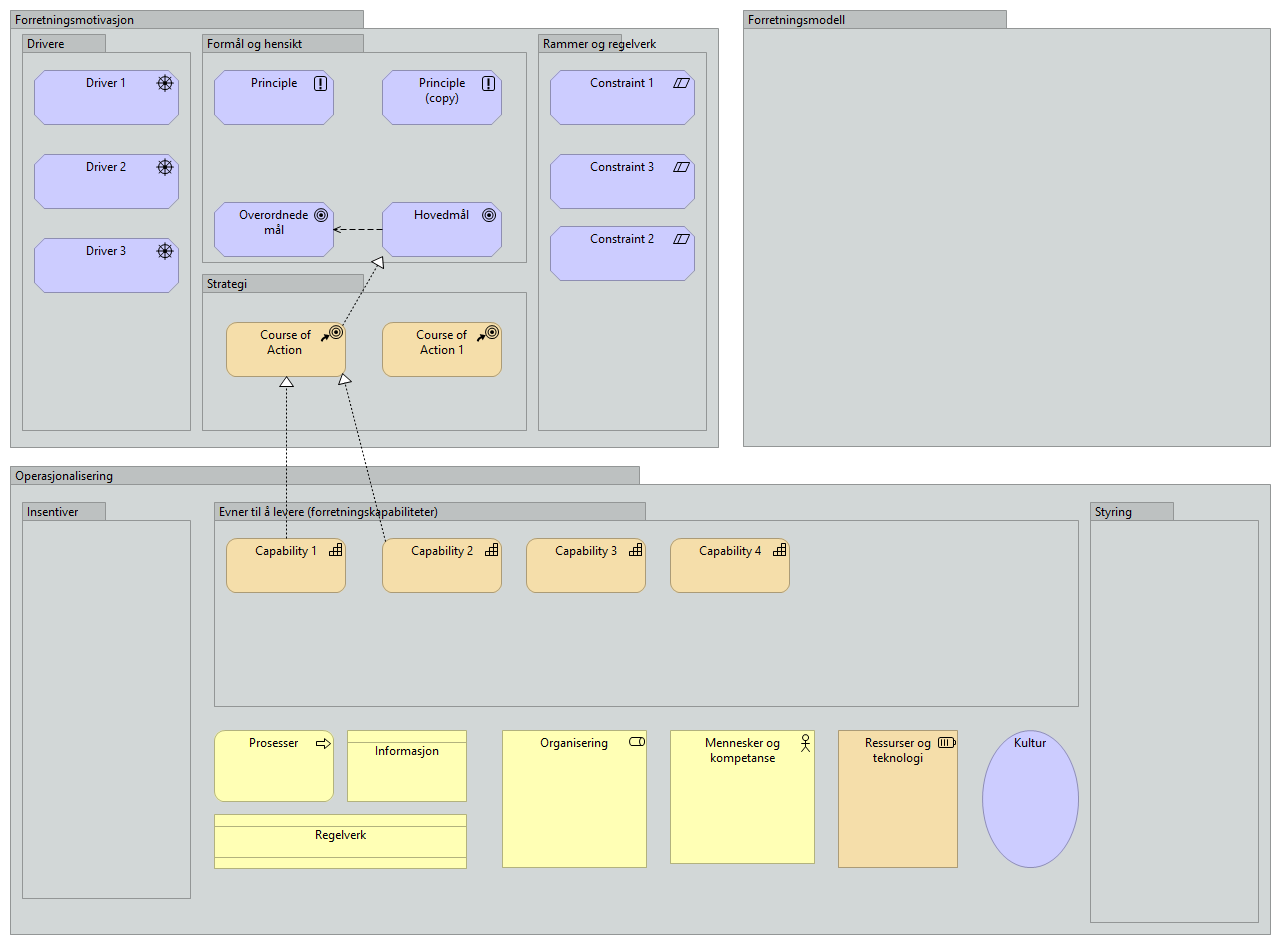
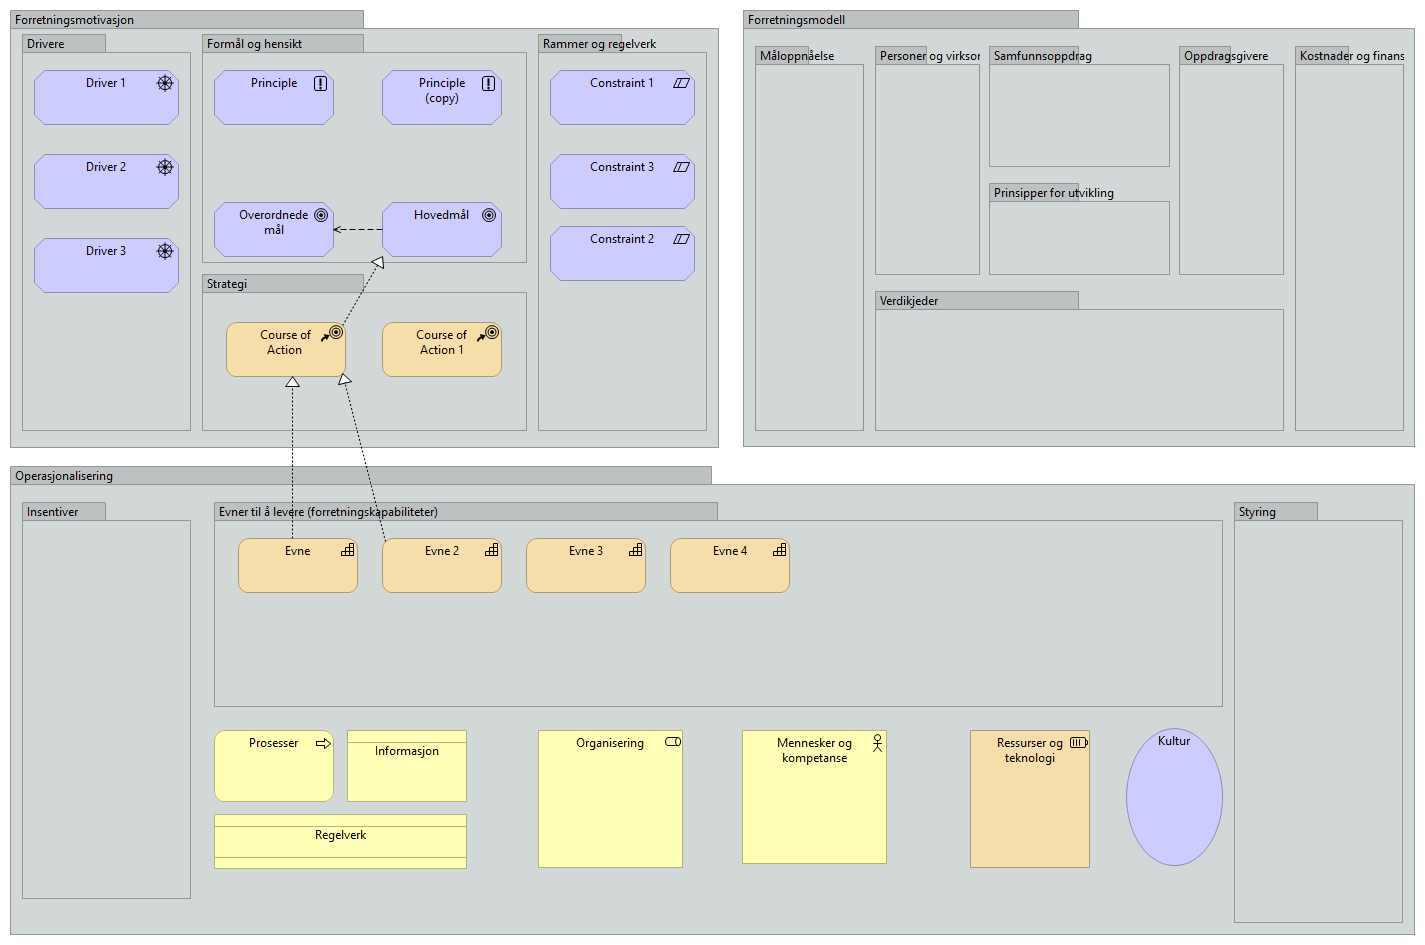
Oppdatert HTML-rapport

diff --git a/docs/70ff1122-82b9-4d13-a15c-6cdc858dd4b3/views/d6ad8e9f-da2d-4299-8c92-d0bce3cb6208.html b/docs/70ff1122-82b9-4d13-a15c-6cdc858dd4b3/views/d6ad8e9f-da2d-4299-8c92-d0bce3cb6208.html
@@ -44,18 +44,18 @@
 										<area shape="rect" coords="382,322,502,377" href="../elements/99510fb0-ff4c-4f28-a1dc-5a84cbc7554e.html"  target="element">
 
 
-										<area shape="rect" coords="226,538,346,593" href="../elements/c6c35a07-3934-491d-a286-147cd1800de6.html"  target="element">
 										<area shape="rect" coords="382,538,502,593" href="../elements/e170b900-4717-47b4-aedc-95363dc1256f.html"  target="element">
 										<area shape="rect" coords="526,538,646,593" href="../elements/d93bb6c5-720a-4d79-b562-fc19e488629f.html"  target="element">
 										<area shape="rect" coords="670,538,790,593" href="../elements/efd702d9-a116-44b5-9754-6e97176531b7.html"  target="element">
+										<area shape="rect" coords="238,538,358,593" href="../elements/04bc3c90-d49d-4066-ad61-268c4b8d3027.html"  target="element">
 
 								<area shape="rect" coords="214,730,334,802" href="../elements/48eb4a74-c1f8-4adf-ae94-2d6c5d314868.html"  target="element">
 								<area shape="rect" coords="347,730,467,802" href="../elements/69f1a2d9-0156-4349-afdf-cdc3a712f304.html"  target="element">
 								<area shape="rect" coords="214,814,467,869" href="../elements/3f55875b-291b-4cd9-a385-c12b8b3eb693.html"  target="element">
-								<area shape="rect" coords="838,730,958,868" href="../elements/005ed7a3-7628-4933-b7f3-c3f694d0a891.html"  target="element">
-								<area shape="rect" coords="982,730,1079,868" href="../elements/7b7b0cfd-7557-4e5c-8e8f-c1b99c6ee71c.html"  target="element">
-								<area shape="rect" coords="502,730,647,868" href="../elements/af1fed58-bc73-4443-a9b4-9c0fe1803460.html"  target="element">
-								<area shape="rect" coords="670,730,815,864" href="../elements/2491f78e-ea1f-4883-8e53-834dcc42f157.html"  target="element">
+								<area shape="rect" coords="970,730,1090,868" href="../elements/005ed7a3-7628-4933-b7f3-c3f694d0a891.html"  target="element">
+								<area shape="rect" coords="1126,728,1223,866" href="../elements/7b7b0cfd-7557-4e5c-8e8f-c1b99c6ee71c.html"  target="element">
+								<area shape="rect" coords="538,730,683,868" href="../elements/af1fed58-bc73-4443-a9b4-9c0fe1803460.html"  target="element">
+								<area shape="rect" coords="742,730,887,864" href="../elements/2491f78e-ea1f-4883-8e53-834dcc42f157.html"  target="element">
 
 
 			</map>
@@ -119,10 +119,10 @@
 										<!-- DEBUG: Skipping element from class com.archimatetool.model.impl.DiagramModelGroup -->	
 												<!-- DEBUG: Skipping element from class com.archimatetool.model.impl.DiagramModelGroup -->	
 												<!-- DEBUG: Skipping element from class com.archimatetool.model.impl.DiagramModelGroup -->	
-														<tr><td> <a href="../elements/c6c35a07-3934-491d-a286-147cd1800de6.html" target="element"> Capability 1 </a> </td><td class="i18n-elementtype-Capability"></td></tr>
-														<tr><td> <a href="../elements/e170b900-4717-47b4-aedc-95363dc1256f.html" target="element"> Capability 2 </a> </td><td class="i18n-elementtype-Capability"></td></tr>
-														<tr><td> <a href="../elements/d93bb6c5-720a-4d79-b562-fc19e488629f.html" target="element"> Capability 3 </a> </td><td class="i18n-elementtype-Capability"></td></tr>
-														<tr><td> <a href="../elements/efd702d9-a116-44b5-9754-6e97176531b7.html" target="element"> Capability 4 </a> </td><td class="i18n-elementtype-Capability"></td></tr>
+														<tr><td> <a href="../elements/e170b900-4717-47b4-aedc-95363dc1256f.html" target="element"> Evne 2 </a> </td><td class="i18n-elementtype-Capability"></td></tr>
+														<tr><td> <a href="../elements/d93bb6c5-720a-4d79-b562-fc19e488629f.html" target="element"> Evne 3 </a> </td><td class="i18n-elementtype-Capability"></td></tr>
+														<tr><td> <a href="../elements/efd702d9-a116-44b5-9754-6e97176531b7.html" target="element"> Evne 4 </a> </td><td class="i18n-elementtype-Capability"></td></tr>
+														<tr><td> <a href="../elements/04bc3c90-d49d-4066-ad61-268c4b8d3027.html" target="element"> Evne </a> </td><td class="i18n-elementtype-Capability"></td></tr>
 												
 												<!-- DEBUG: Skipping element from class com.archimatetool.model.impl.DiagramModelGroup -->	
 												<tr><td> <a href="../elements/48eb4a74-c1f8-4adf-ae94-2d6c5d314868.html" target="element"> Prosesser </a> </td><td class="i18n-elementtype-BusinessProcess"></td></tr>
@@ -134,6 +134,14 @@
 												<tr><td> <a href="../elements/2491f78e-ea1f-4883-8e53-834dcc42f157.html" target="element"> Mennesker og kompetanse </a> </td><td class="i18n-elementtype-BusinessActor"></td></tr>
 										
 										<!-- DEBUG: Skipping element from class com.archimatetool.model.impl.DiagramModelGroup -->	
+												<!-- DEBUG: Skipping element from class com.archimatetool.model.impl.DiagramModelGroup -->	
+												<!-- DEBUG: Skipping element from class com.archimatetool.model.impl.DiagramModelGroup -->	
+												<!-- DEBUG: Skipping element from class com.archimatetool.model.impl.DiagramModelGroup -->	
+												<!-- DEBUG: Skipping element from class com.archimatetool.model.impl.DiagramModelGroup -->	
+												<!-- DEBUG: Skipping element from class com.archimatetool.model.impl.DiagramModelGroup -->	
+												<!-- DEBUG: Skipping element from class com.archimatetool.model.impl.DiagramModelGroup -->	
+												<!-- DEBUG: Skipping element from class com.archimatetool.model.impl.DiagramModelGroup -->	
+										
 
 							</tbody>
 						</table>

diff --git a/docs/index.html b/docs/index.html
@@ -52,10 +52,9 @@
                                 <li><span class="i18n-strategy"><i class="glyphicon glyphicon-triangle-right"></i> </span>
                                     <ul>
                                     				<li class="tree-element"><a href="70ff1122-82b9-4d13-a15c-6cdc858dd4b3/elements/04bc3c90-d49d-4066-ad61-268c4b8d3027.html" target="element"> Evne </a></li>
-                                    				<li class="tree-element"><a href="70ff1122-82b9-4d13-a15c-6cdc858dd4b3/elements/c6c35a07-3934-491d-a286-147cd1800de6.html" target="element"> Capability 1 </a></li>
-                                    				<li class="tree-element"><a href="70ff1122-82b9-4d13-a15c-6cdc858dd4b3/elements/d93bb6c5-720a-4d79-b562-fc19e488629f.html" target="element"> Capability 3 </a></li>
-                                    				<li class="tree-element"><a href="70ff1122-82b9-4d13-a15c-6cdc858dd4b3/elements/e170b900-4717-47b4-aedc-95363dc1256f.html" target="element"> Capability 2 </a></li>
-                                    				<li class="tree-element"><a href="70ff1122-82b9-4d13-a15c-6cdc858dd4b3/elements/efd702d9-a116-44b5-9754-6e97176531b7.html" target="element"> Capability 4 </a></li>
+                                    				<li class="tree-element"><a href="70ff1122-82b9-4d13-a15c-6cdc858dd4b3/elements/d93bb6c5-720a-4d79-b562-fc19e488629f.html" target="element"> Evne 3 </a></li>
+                                    				<li class="tree-element"><a href="70ff1122-82b9-4d13-a15c-6cdc858dd4b3/elements/e170b900-4717-47b4-aedc-95363dc1256f.html" target="element"> Evne 2 </a></li>
+                                    				<li class="tree-element"><a href="70ff1122-82b9-4d13-a15c-6cdc858dd4b3/elements/efd702d9-a116-44b5-9754-6e97176531b7.html" target="element"> Evne 4 </a></li>
                                     				<li class="tree-element"><a href="70ff1122-82b9-4d13-a15c-6cdc858dd4b3/elements/3426621d-c1a6-4b40-bc5a-5031f432d46f.html" target="element"> Course of Action  </a></li>
                                     				<li class="tree-element"><a href="70ff1122-82b9-4d13-a15c-6cdc858dd4b3/elements/99510fb0-ff4c-4f28-a1dc-5a84cbc7554e.html" target="element"> Course of Action 1 </a></li>
                                     				<li class="tree-element"><a href="70ff1122-82b9-4d13-a15c-6cdc858dd4b3/elements/005ed7a3-7628-4933-b7f3-c3f694d0a891.html" target="element"> Ressurser og teknologi </a></li>
@@ -340,13 +339,9 @@
 															<span class="i18n-elementtype-RealizationRelationship"></span>
 														(Produkt - Begrepskatalog) 
 													</a></li>
-													<li class="tree-element"><a href="70ff1122-82b9-4d13-a15c-6cdc858dd4b3/elements/57b29623-df8d-4198-bbb0-fe8a462aaa67.html" target="element">
-															<span class="i18n-elementtype-RealizationRelationship"></span>
-														(Capability 1 - Course of Action ) 
-													</a></li>
 													<li class="tree-element"><a href="70ff1122-82b9-4d13-a15c-6cdc858dd4b3/elements/63405723-18ee-4682-9ab1-023c336e01bf.html" target="element">
 															<span class="i18n-elementtype-RealizationRelationship"></span>
-														(Capability 2 - Course of Action ) 
+														(Evne 2 - Course of Action ) 
 													</a></li>
 													<li class="tree-element"><a href="70ff1122-82b9-4d13-a15c-6cdc858dd4b3/elements/67a349f2-3023-486f-a637-9044e99c9366.html" target="element">
 															<span class="i18n-elementtype-RealizationRelationship"></span>

diff --git a/docs/70ff1122-82b9-4d13-a15c-6cdc858dd4b3/elements/d93bb6c5-720a-4d79-b562-fc19e488629f.html b/docs/70ff1122-82b9-4d13-a15c-6cdc858dd4b3/elements/d93bb6c5-720a-4d79-b562-fc19e488629f.html
@@ -2,7 +2,7 @@
 <html class="frame" lang="en">
 <head>
 	<meta http-equiv="Content-Type" content="text/html;charset=utf-8">
-	<title>Capability 3</title>
+	<title>Evne 3</title>
 
 	<!-- JQUERY (use 1.x branch to be compatible with IE 6/7/8) -->
 	<script type="text/javascript" src="../../lib/jquery/js/jquery-1.11.2.min.js"></script>
@@ -20,7 +20,7 @@
 <body>
 	<div class="panel panel-default root-panel">
 		<div class="panel-heading root-panel-heading">
-			<b>Capability 3</b>
+			<b>Evne 3</b>
 			(<span class="i18n-elementtype-Capability"></span>)
 			<a class="glyphicon glyphicon-info-sign" id="hint-Capability" target="hint"></a>
 		</div>

diff --git a/docs/70ff1122-82b9-4d13-a15c-6cdc858dd4b3/elements/e170b900-4717-47b4-aedc-95363dc1256f.html b/docs/70ff1122-82b9-4d13-a15c-6cdc858dd4b3/elements/e170b900-4717-47b4-aedc-95363dc1256f.html
@@ -2,7 +2,7 @@
 <html class="frame" lang="en">
 <head>
 	<meta http-equiv="Content-Type" content="text/html;charset=utf-8">
-	<title>Capability 2</title>
+	<title>Evne 2</title>
 
 	<!-- JQUERY (use 1.x branch to be compatible with IE 6/7/8) -->
 	<script type="text/javascript" src="../../lib/jquery/js/jquery-1.11.2.min.js"></script>
@@ -20,7 +20,7 @@
 <body>
 	<div class="panel panel-default root-panel">
 		<div class="panel-heading root-panel-heading">
-			<b>Capability 2</b>
+			<b>Evne 2</b>
 			(<span class="i18n-elementtype-Capability"></span>)
 			<a class="glyphicon glyphicon-info-sign" id="hint-Capability" target="hint"></a>
 		</div>

diff --git a/docs/70ff1122-82b9-4d13-a15c-6cdc858dd4b3/elements/efd702d9-a116-44b5-9754-6e97176531b7.html b/docs/70ff1122-82b9-4d13-a15c-6cdc858dd4b3/elements/efd702d9-a116-44b5-9754-6e97176531b7.html
@@ -2,7 +2,7 @@
 <html class="frame" lang="en">
 <head>
 	<meta http-equiv="Content-Type" content="text/html;charset=utf-8">
-	<title>Capability 4</title>
+	<title>Evne 4</title>
 
 	<!-- JQUERY (use 1.x branch to be compatible with IE 6/7/8) -->
 	<script type="text/javascript" src="../../lib/jquery/js/jquery-1.11.2.min.js"></script>
@@ -20,7 +20,7 @@
 <body>
 	<div class="panel panel-default root-panel">
 		<div class="panel-heading root-panel-heading">
-			<b>Capability 4</b>
+			<b>Evne 4</b>
 			(<span class="i18n-elementtype-Capability"></span>)
 			<a class="glyphicon glyphicon-info-sign" id="hint-Capability" target="hint"></a>
 		</div>

diff --git a/docs/70ff1122-82b9-4d13-a15c-6cdc858dd4b3/elements/63405723-18ee-4682-9ab1-023c336e01bf.html b/docs/70ff1122-82b9-4d13-a15c-6cdc858dd4b3/elements/63405723-18ee-4682-9ab1-023c336e01bf.html
@@ -38,7 +38,7 @@
 							<br>
 							<b class="i18n-relation-source"></b>
 								<a href="../elements/e170b900-4717-47b4-aedc-95363dc1256f.html" target="element">
-									Capability 2
+									Evne 2
 								</a> <br>
 							<b class="i18n-relation-target"></b>
 								<a href="../elements/3426621d-c1a6-4b40-bc5a-5031f432d46f.html" target="element">
